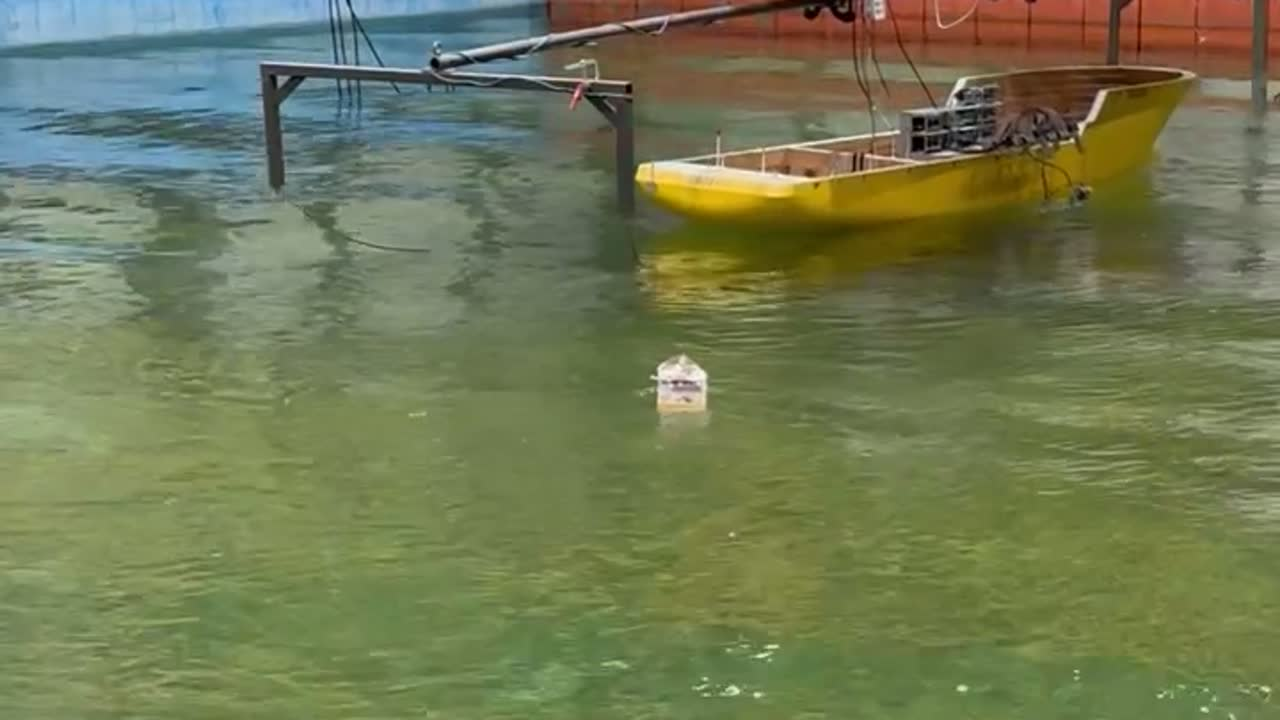
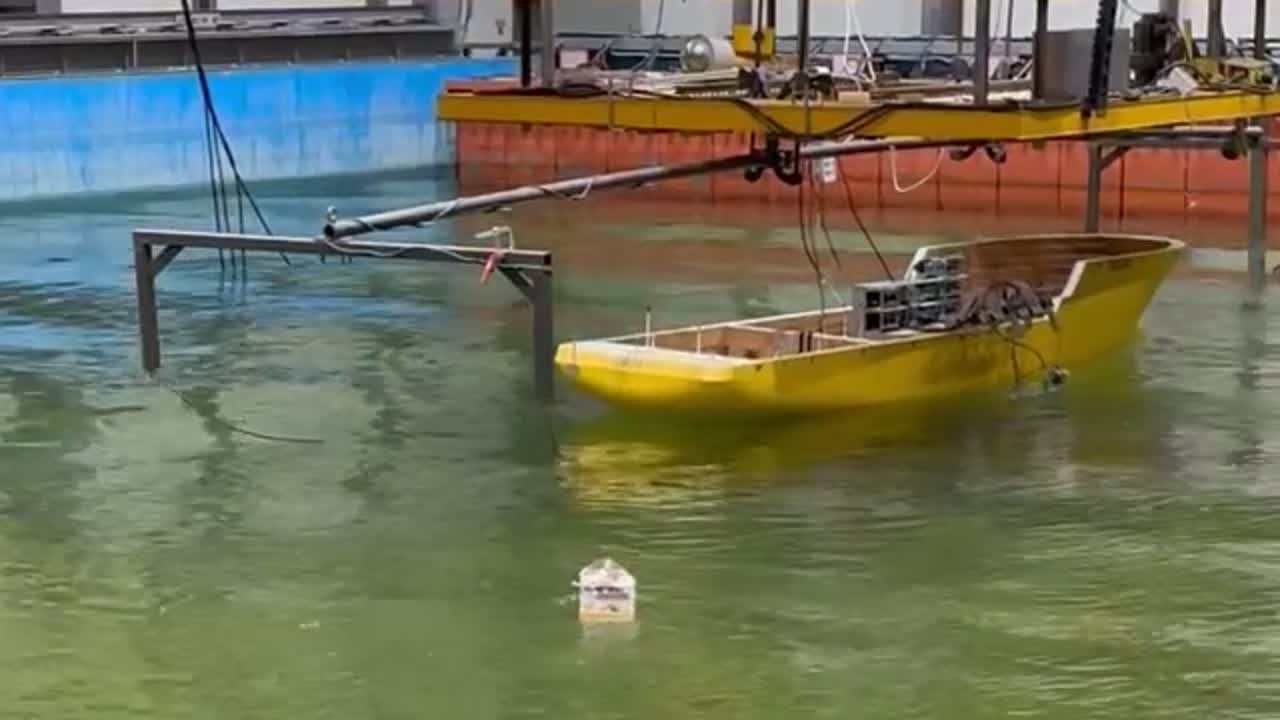
Home: full-width About text, recenter recovery thumbnail

diff --git a/index.html b/index.html
@@ -50,7 +50,7 @@
   section{padding:44px 0; border-bottom:1px solid var(--line)}
   h2{font-size:1.35rem; margin:0 0 6px; letter-spacing:-.01em}
   .lead{color:var(--muted); margin:0 0 24px; font-size:1rem}
-  p.body{margin:0 0 16px; max-width:760px}
+  p.body{margin:0 0 16px}
   .interests{display:flex; flex-wrap:wrap; gap:9px; margin-top:14px}
   .tag{font-size:.85rem; background:var(--card); border:1px solid var(--line); color:var(--fg);
     padding:6px 13px; border-radius:999px}
@@ -138,7 +138,7 @@
       <div class="cards">
 
         <a class="card" href="https://kyong3005.github.io/usv-recovery/" target="_blank" rel="noopener">
-          <img class="thumb" src="assets/thumb_recovery.jpg?v=3" alt="Safe cradle recovery of a USV" />
+          <img class="thumb" src="assets/thumb_recovery.jpg?v=4" alt="Safe cradle recovery of a USV" />
           <div class="body">
             <p class="kick">Project page</p>
             <h3>Safe Cradle Recovery of an Underactuated USV <span class="ext">&#8599;</span></h3>
